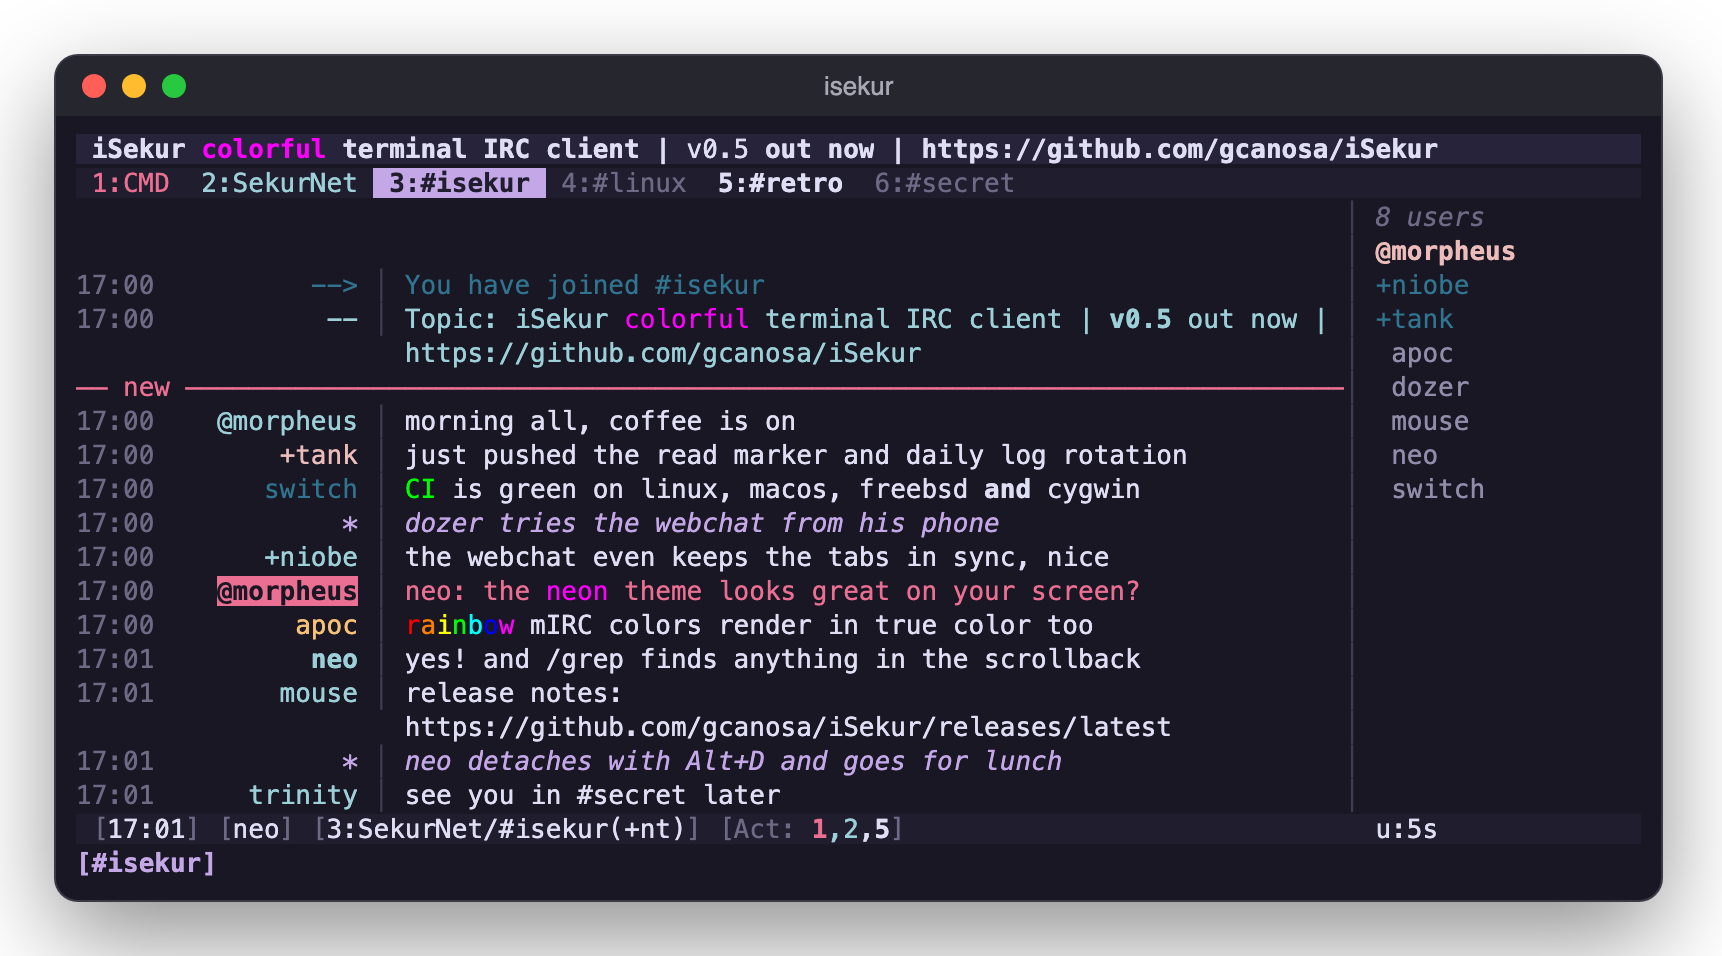
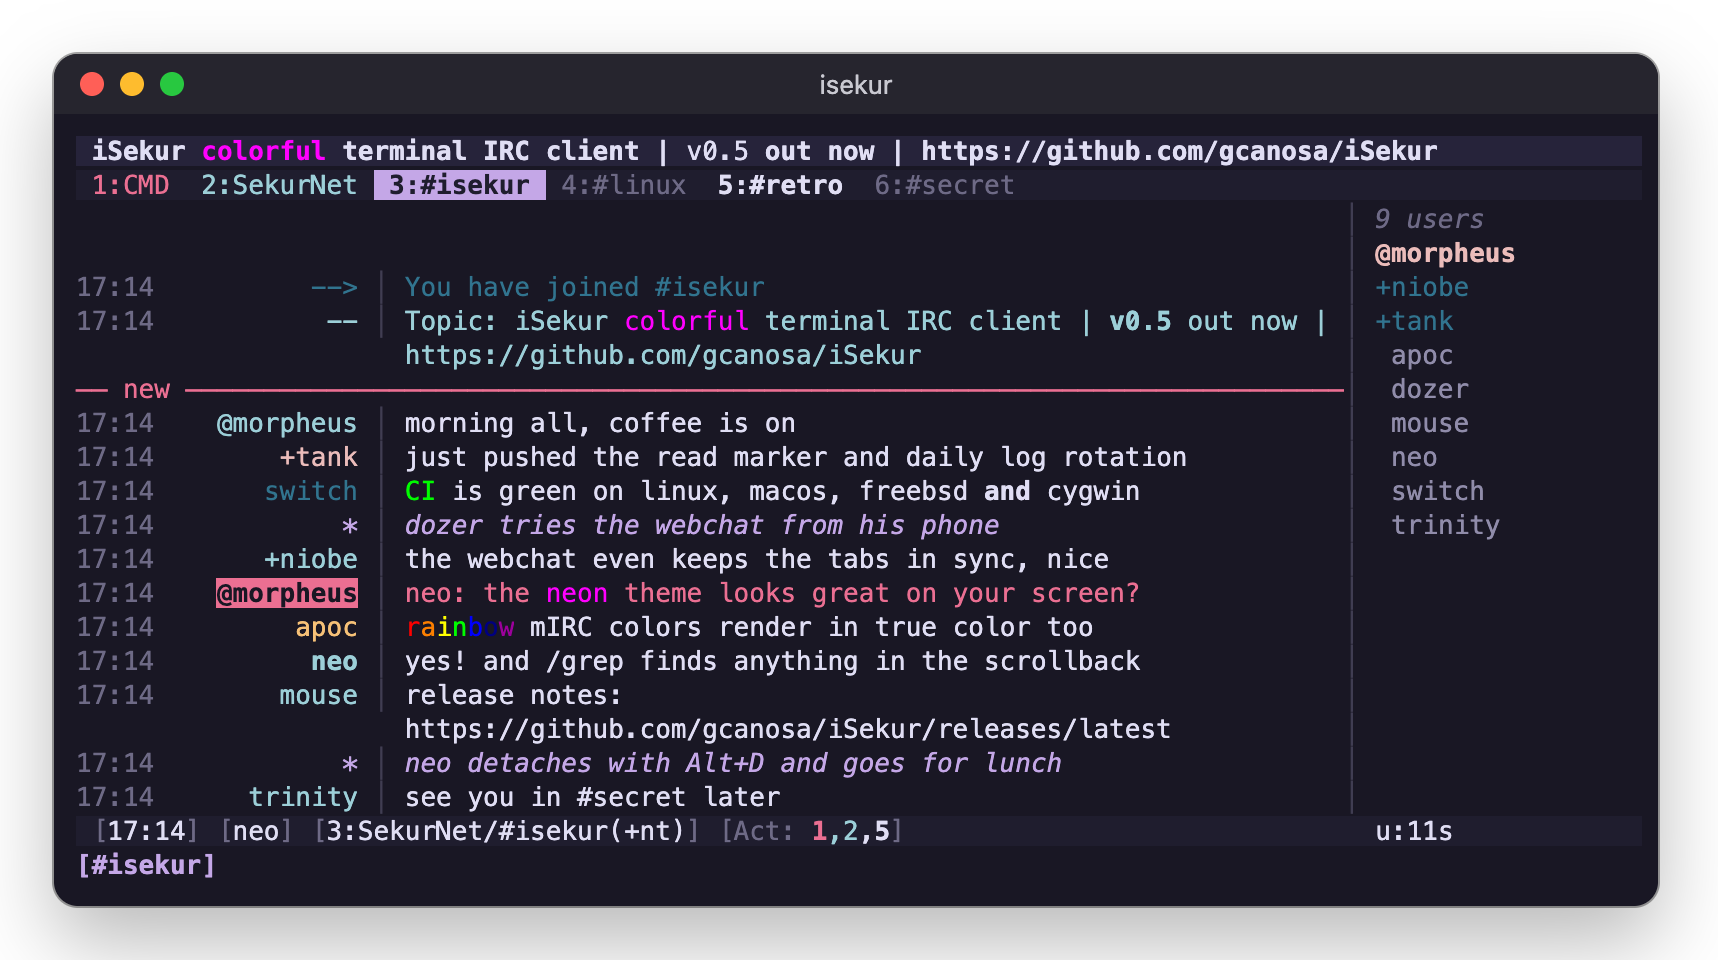
Homepage screenshots retaken from the current iSekur: six themes, /theme picker, /set window, webchat (desktop, phone, mIRC, settings; now at 2x) and the og card (37 themes). tools/shots/run.sh regenerates them against a scratch SekurIRCd. docs: /exit asks for the lock password

diff --git a/index.html b/index.html
@@ -290,7 +290,7 @@ footer a{color:var(--muted);text-decoration:underline}
   <h2>Same chat, six of the 37 themes.</h2>
   <p class="lead">Screenshots of iSekur running in a terminal. A theme changes everything: the bars, the tabs, the nicklist, the timestamps, the nick colors, even the layout (mIRC puts <code>&lt;nicks&gt;</code> inline).</p>
   <div class="gal-tabs" role="tablist"><button role="tab" aria-selected="true" data-g="mirc">mIRC</button><button role="tab" aria-selected="false" data-g="rose-pine">Rosé Pine</button><button role="tab" aria-selected="false" data-g="ayu">Ayu</button><button role="tab" aria-selected="false" data-g="neon">Neon</button><button role="tab" aria-selected="false" data-g="catppuccin-latte">Catppuccin Latte</button><button role="tab" aria-selected="false" data-g="dracula">Dracula</button></div>
-  <div class="gal" id="gal"><img class="on" data-g="mirc" src="img/chat-mirc.png" alt="iSekur in the mIRC theme: topic bar, tabs, chat with a new marker, nicklist and status bar" width="1722" height="956"><img data-g="rose-pine" src="img/chat-rose-pine.png" alt="iSekur in the Rosé Pine theme: topic bar, tabs, chat with a new marker, nicklist and status bar" width="1722" height="956"><img data-g="ayu" src="img/chat-ayu.png" alt="iSekur in the Ayu theme: topic bar, tabs, chat with a new marker, nicklist and status bar" width="1722" height="956"><img data-g="neon" src="img/chat-neon.png" alt="iSekur in the Neon theme: topic bar, tabs, chat with a new marker, nicklist and status bar" width="1722" height="956"><img data-g="catppuccin-latte" src="img/chat-catppuccin-latte.png" alt="iSekur in the Catppuccin Latte theme: topic bar, tabs, chat with a new marker, nicklist and status bar" width="1722" height="956"><img data-g="dracula" src="img/chat-dracula.png" alt="iSekur in the Dracula theme: topic bar, tabs, chat with a new marker, nicklist and status bar" width="1722" height="956"></div>
+  <div class="gal" id="gal"><img class="on" data-g="mirc" src="img/chat-mirc.png" alt="iSekur in the mIRC theme: topic bar, tabs, chat with a new marker, nicklist and status bar" width="1718" height="960"><img data-g="rose-pine" src="img/chat-rose-pine.png" alt="iSekur in the Rosé Pine theme: topic bar, tabs, chat with a new marker, nicklist and status bar" width="1718" height="960"><img data-g="ayu" src="img/chat-ayu.png" alt="iSekur in the Ayu theme: topic bar, tabs, chat with a new marker, nicklist and status bar" width="1718" height="960"><img data-g="neon" src="img/chat-neon.png" alt="iSekur in the Neon theme: topic bar, tabs, chat with a new marker, nicklist and status bar" width="1718" height="960"><img data-g="catppuccin-latte" src="img/chat-catppuccin-latte.png" alt="iSekur in the Catppuccin Latte theme: topic bar, tabs, chat with a new marker, nicklist and status bar" width="1718" height="960"><img data-g="dracula" src="img/chat-dracula.png" alt="iSekur in the Dracula theme: topic bar, tabs, chat with a new marker, nicklist and status bar" width="1718" height="960"></div>
 </section>
 
 <section id="tools">

diff --git a/tools/shots/web.js b/tools/shots/web.js
@@ -1,0 +1,24 @@
+const { chromium } = require(process.env.PWC);
+(async () => {
+  const b = await chromium.launch({ executablePath: process.env.CHROME });
+  const ctx = await b.newContext({ ignoreHTTPSErrors: true, deviceScaleFactor: 2, viewport: { width: 1240, height: 520 } });
+  const p = await ctx.newPage();
+  let url = "https://127.0.0.1:18443/";
+  try { await p.goto(url); } catch (e) { url = "http://127.0.0.1:18443/"; await p.goto(url); }
+  await p.fill("#lu", "me"); await p.fill("#lp", "shot"); await p.press("#lp", "Enter");
+  await p.waitForSelector("#msgs >> text=see you in", { timeout: 15000 });
+  await p.waitForTimeout(1500);
+  await p.screenshot({ path: "out/web-rose.png" });
+  const ph = await b.newContext({ ignoreHTTPSErrors: true, deviceScaleFactor: 2, viewport: { width: 390, height: 760 }, isMobile: true, hasTouch: true });
+  const q = await ph.newPage(); await q.goto(url);
+  await q.fill("#lu", "me"); await q.fill("#lp", "shot"); await q.press("#lp", "Enter");
+  await q.waitForSelector("#msgs >> text=see you in", { timeout: 15000 }); await q.waitForTimeout(1500);
+  await q.screenshot({ path: "out/web-phone.png" });
+  await p.setViewportSize({ width: 1280, height: 760 });
+  await p.fill("#line", "/theme mirc"); await p.press("#line", "Enter");
+  await p.waitForTimeout(2000);
+  await p.screenshot({ path: "out/web-mirc.png" });
+  await p.click("#setbtn"); await p.waitForTimeout(1500);
+  await p.screenshot({ path: "out/web-set.png" });
+  await b.close();
+})().catch(e => { console.error(e); process.exit(1); });

diff --git a/tools/shots/og.html b/tools/shots/og.html
@@ -1,0 +1,8 @@
+<!doctype html><meta charset="utf-8"><style>
+body{margin:0}
+#og{width:1200px;height:630px;position:relative;overflow:hidden;background:radial-gradient(900px 500px at 0 0,#3a2340 0,transparent 60%),radial-gradient(700px 400px at 100% 100%,#3a1f35 0,transparent 60%),#0f0d14;font-family:-apple-system,BlinkMacSystemFont,"Helvetica Neue",sans-serif;color:#e8e4f0}
+h1{position:absolute;left:68px;top:40px;margin:0;font:700 112px/1.2 ui-monospace,"SF Mono",Menlo,monospace;background:linear-gradient(90deg,#f472b6,#a78bfa 55%,#7dd3fc);-webkit-background-clip:text;color:transparent}
+p{position:absolute;left:68px;top:176px;width:440px;margin:0;font:700 26px/1.45 -apple-system,sans-serif}
+.f{position:absolute;left:68px;bottom:56px;font:22px ui-monospace,"SF Mono",Menlo,monospace;color:#b9b3c8}
+img{position:absolute;left:520px;top:80px;width:704px}
+</style><div id="og"><h1>iSekur</h1><p>A colorful, open source terminal IRC client with a built-in webchat.</p><img src="out/chat-rose-pine.png"><div class="f">37 themes · IRCv3 · E2E · macOS &amp; Linux</div></div>

diff --git a/tools/shots/render.js b/tools/shots/render.js
@@ -1,0 +1,10 @@
+// node render.js in.html out.png [#selector]
+const { chromium } = require(process.env.PWC);
+(async () => {
+  const b = await chromium.launch({ executablePath: process.env.CHROME });
+  const p = await b.newPage({ deviceScaleFactor: 2, viewport: { width: 1000, height: 800 } });
+  await p.goto("file://" + require("path").resolve(process.argv[2]));
+  await p.evaluate(() => document.fonts.ready);
+  await p.locator(process.argv[4] || "#shot").screenshot({ path: process.argv[3], omitBackground: true });
+  await b.close();
+})();

diff --git a/tools/shots/og.js b/tools/shots/og.js
@@ -1,0 +1,5 @@
+const { chromium } = require(process.env.PWC);
+(async () => { const b = await chromium.launch({ executablePath: process.env.CHROME });
+  const p = await b.newPage({ viewport: { width: 1200, height: 630 } });
+  await p.goto("file://" + require("path").resolve("og.html")); await p.waitForTimeout(300);
+  await p.locator("#og").screenshot({ path: "out/og.png" }); await b.close(); })();

diff --git a/tools/shots/scene.py b/tools/shots/scene.py
@@ -1,0 +1,124 @@
+# Drives SekurIRCd + bots + iSekur in tmux; writes ANSI captures for the site screenshots.
+import sys, os, time, subprocess, json
+CODE = os.path.abspath(os.path.join(os.path.dirname(__file__), "../../.."))
+sys.path.insert(0, os.environ.get("SEKURIRCD", CODE + "/sekurircd") + "/tests/itest")
+from harness import Server, Client
+HERE = os.path.dirname(os.path.abspath(__file__))
+ISK = os.environ.get("ISEKUR", CODE + "/iSekur")
+TMUX = ["/opt/homebrew/bin/tmux", "-L", "iskshot"]
+C = "\x03"; B = "\x02"; O = "\x0f"
+HASH = "pbkdf2$sha256$200000$rN4UvnbV7WAxmxQq/JgxkA==$vV4biqDvfNxWzUO6h0CYLACPNERvdWayUApM1d2zBOM="
+
+srv = Server(name="irc.sekurnet.org", cfg={"server": {"network": "SekurNet"}}).start()
+open(f"{HERE}/pids", "w").write(str(srv.proc.pid))
+bots = {n: srv.client(n, realname=n) for n in ["morpheus", "tank", "niobe", "switch", "apoc", "dozer", "mouse", "trinity"]}
+m = bots["morpheus"]
+for ch in ["#isekur", "#linux", "#retro", "#secret"]:
+    m.send(f"JOIN {ch}")
+time.sleep(0.3)
+m.send(f"TOPIC #isekur :iSekur {C}13colorful{O} terminal IRC client | {B}v0.5{B} out now | https://github.com/gcanosa/iSekur")
+for n, b in bots.items():
+    if n != "morpheus": b.send("JOIN #isekur")
+bots["tank"].send("JOIN #retro"); bots["trinity"].send("JOIN #secret")
+time.sleep(0.3)
+m.send("MODE #isekur +vv tank niobe")
+import socket, threading
+PX = socket.socket(); PX.bind(("127.0.0.1", 0)); PX.listen(5); PXPORT = PX.getsockname()[1]
+def _pipe(a, b, tag):
+    f = open(f"{HERE}/raw.log", "a")
+    while True:
+        try: d = a.recv(65536)
+        except OSError: d = b""
+        if not d: break
+        for l in d.decode(errors="replace").splitlines(): f.write(tag + l + "\n")
+        f.flush(); b.sendall(d)
+    a.close(); b.close()
+def _accept():
+    while True:
+        c, _ = PX.accept(); u = socket.create_connection(("127.0.0.1", srv.port))
+        threading.Thread(target=_pipe, args=(c, u, "C> "), daemon=True).start()
+        threading.Thread(target=_pipe, args=(u, c, "S> "), daemon=True).start()
+threading.Thread(target=_accept, daemon=True).start()
+def pump():
+    for b in bots.values(): b.drain(0.01)
+
+def tmux(*a, **kw): return subprocess.run(TMUX + list(a), capture_output=True, text=True, **kw).stdout
+def keys(*k): tmux("send-keys", "-t", "s", *k); time.sleep(0.25)
+def typ(line): tmux("send-keys", "-t", "s", "-l", line); keys("Enter"); time.sleep(0.2)
+def cap(name):
+    time.sleep(0.6)
+    open(f"{HERE}/{name}.ans", "w").write(tmux("capture-pane", "-t", "s", "-p", "-e", "-N"))
+def say(n, text, ch="#isekur"):
+    bots[n].send(f"PRIVMSG {ch} :{text}"); time.sleep(0.15)
+def act(n, text): say(n, f"\x01ACTION {text}\x01")
+
+def stop():
+    typ("/exit -y"); time.sleep(0.8); tmux("kill-server"); time.sleep(0.3)
+
+def start(theme, rows, web=False):
+    d = "/tmp/iskshot"; os.makedirs(d, exist_ok=True)
+    open(f"{d}/isekur.conf", "w").write(f"""[general]
+nick = neo
+altnick = neo_
+realname = Thomas A.
+theme = {theme}
+colors = truecolor
+show_guide = off
+check_updates = off
+log = off
+keep_history = off
+banner_anim = off
+flood_interval_ms = 0
+[server.sekurnet]
+host = 127.0.0.1
+port = {PXPORT}
+tls = false
+autojoin = #isekur,#linux,#retro,#secret
+[web]
+autostart = {'on' if web else 'off'}
+port = 18443
+user = me
+password_hash = {HASH}
+""")
+    tmux("new-session", "-d", "-s", "s", "-x", "100", "-y", str(rows),
+         f"cd {ISK} && TERM=xterm-256color COLORTERM=truecolor ./isekur -c {d}/isekur.conf")
+    for _ in range(60):
+        time.sleep(0.25); pump()
+        if "#secret" in tmux("capture-pane", "-t", "s", "-p"): break
+    time.sleep(1)
+
+def chat():
+    keys("M-3"); time.sleep(0.5); keys("M-4"); time.sleep(0.3)
+    say("morpheus", "morning all, coffee is on")
+    say("tank", "just pushed the read marker and daily log rotation")
+    say("switch", f"{C}09CI{O} is green on linux, macos, freebsd {B}and{B} cygwin")
+    act("dozer", "tries the webchat from his phone")
+    say("niobe", "the webchat even keeps the tabs in sync, nice")
+    say("morpheus", f"neo: the {C}13neon{O} theme looks great on your screen?")
+    say("apoc", f"{C}04r{C}07a{C}08i{C}09n{C}12b{C}02o{C}06w{O} mIRC colors render in true color too")
+    say("tank", "anyone still running a 486 here?", "#retro")
+    time.sleep(0.4); keys("M-3"); pump()
+    typ("yes! and /grep finds anything in the scrollback")
+    say("mouse", "release notes: https://github.com/gcanosa/iSekur/releases/latest")
+    typ("/me detaches with Alt+D and goes for lunch")
+    say("trinity", "see you in #secret later")
+    time.sleep(0.5); pump()
+
+mode = sys.argv[1]
+if mode == "chat":
+    for th in sys.argv[2:]:
+        start(th, 22); chat(); cap(f"chat-{th}"); stop()
+elif mode == "ui":
+    start("catppuccin-mocha", 26); chat()
+    typ("/theme"); time.sleep(0.5)
+    for _ in range(3): keys("Down")
+    cap("theme-picker"); keys("Escape"); time.sleep(0.5)
+    typ("/set"); time.sleep(0.5)
+    keys("Down"); keys("Down"); keys("Down")
+    cap("settings"); keys("q"); stop()
+elif mode == "web":
+    start("rose-pine", 22, web=True); chat()
+    print("READY", flush=True)
+    while os.path.exists(f"{HERE}/web.hold"): time.sleep(0.5); pump()
+    stop()
+srv.stop()

diff --git a/tools/shots/ans2html.py b/tools/shots/ans2html.py
@@ -1,0 +1,64 @@
+# ans2html.py capture.ans theme > out.html : a tmux capture-pane -e dump as a macOS-style terminal window
+import sys, re, html, os
+src = open(sys.argv[1]).read()
+src = re.sub(r"\x1b\]8;[^\x1b\x07]*(\x1b\\|\x07)", "", src)  # OSC 8 links
+th = open(os.path.join(os.environ.get("ISEKUR", os.path.join(os.path.dirname(os.path.abspath(__file__)), "../../../iSekur")), "themes", sys.argv[2] + ".theme")).read()
+dfg, dbg = re.search(r"^default\s*=\s*(#\w+)\s+(#\w+)", th, re.M).groups()
+P16 = ["#000000","#cd0000","#00cd00","#cdcd00","#0000ee","#cd00cd","#00cdcd","#e5e5e5",
+       "#7f7f7f","#ff0000","#00ff00","#ffff00","#5c5cff","#ff00ff","#00ffff","#ffffff"]
+def c256(n):
+    if n < 16: return P16[n]
+    if n < 232:
+        n -= 16; v = [0, 95, 135, 175, 215, 255]
+        return "#%02x%02x%02x" % (v[n // 36], v[n // 6 % 6], v[n % 6])
+    g = 8 + (n - 232) * 10; return "#%02x%02x%02x" % (g, g, g)
+def run(line):
+    st = dict(fg=None, bg=None, b=0, d=0, i=0, u=0, r=0); out = []
+    for tok in re.split(r"(\x1b\[[0-9;:]*m)", line):
+        if tok.startswith("\x1b["):
+            a = [int(x) if x else 0 for x in re.split("[;:]", tok[2:-1])] or [0]
+            k = 0
+            while k < len(a):
+                x = a[k]
+                if x == 0: st = dict(fg=None, bg=None, b=0, d=0, i=0, u=0, r=0)
+                elif x == 1: st["b"] = 1
+                elif x == 2: st["d"] = 1
+                elif x == 3: st["i"] = 1
+                elif x == 4: st["u"] = 1
+                elif x == 7: st["r"] = 1
+                elif x == 22: st["b"] = st["d"] = 0
+                elif x == 23: st["i"] = 0
+                elif x == 24: st["u"] = 0
+                elif x == 27: st["r"] = 0
+                elif x in (38, 48):
+                    key = "fg" if x == 38 else "bg"
+                    if a[k+1] == 2: st[key] = "#%02x%02x%02x" % tuple(a[k+2:k+5]); k += 4
+                    else: st[key] = c256(a[k+2]); k += 2
+                elif x == 39: st["fg"] = None
+                elif x == 49: st["bg"] = None
+                elif 30 <= x <= 37: st["fg"] = P16[x-30]
+                elif 40 <= x <= 47: st["bg"] = P16[x-40]
+                elif 90 <= x <= 97: st["fg"] = P16[x-82]
+                elif 100 <= x <= 107: st["bg"] = P16[x-92]
+                k += 1
+        elif tok:
+            fg, bg = st["fg"] or dfg, st["bg"] or dbg
+            if st["r"]: fg, bg = bg, fg
+            css = f"color:{fg};background:{bg}"
+            if st["b"]: css += ";font-weight:700"
+            if st["d"]: css += ";opacity:.6"
+            if st["i"]: css += ";font-style:italic"
+            if st["u"]: css += ";text-decoration:underline"
+            out.append(f'<span style="{css}">{html.escape(tok)}</span>')
+    return "".join(out)
+rows = src.rstrip("\n").split("\n")
+body = "\n".join(f'<div class="l">{run(r)}</div>' for r in rows)
+print(f"""<!doctype html><meta charset="utf-8"><style>
+html,body{{margin:0;background:transparent}}
+#shot{{padding:27px 30px 27px 27px;display:inline-block}}
+.win{{border-radius:12px;overflow:hidden;box-shadow:0 0 0 1px rgba(0,0,0,.35),0 18px 40px rgba(0,0,0,.28);background:{dbg};width:802px}}
+.tb{{height:30px;background:#26252e;position:relative;font:13px -apple-system,BlinkMacSystemFont,sans-serif;color:#c9c9d1;text-align:center;line-height:30px}}
+.tb i{{position:absolute;top:9px;width:12px;height:12px;border-radius:50%}}
+.t{{padding:10px 11px 12px;font:13px/17px ui-monospace,"SF Mono",Menlo,monospace}}
+.l{{white-space:pre;height:17px}}
+</style><body><div id="shot"><div class="win"><div class="tb"><i style="left:13px;background:#ff5f57"></i><i style="left:33px;background:#febc2e"></i><i style="left:53px;background:#28c840"></i>isekur</div><div class="t">{body}</div></div></div>""")

diff --git a/tools/shots/README.md b/tools/shots/README.md
@@ -1,0 +1,11 @@
+# Homepage screenshots
+
+`./run.sh` replays a scripted chat on a scratch SekurIRCd (`irc.sekurnet.org`, network SekurNet, 8 bot nicks).
+It drives iSekur in `tmux -L iskshot`, turns each `capture-pane -e` into a terminal-window page (`ans2html.py`)
+and screenshots it at 2x (`render.js`). The webchat shots come from the same session (`web.js`, login `me`/`shot`),
+and `og.html` is the social card. Results go into `../../img`.
+
+Gotchas the scripts already handle: one ircd per theme (CHATHISTORY would replay earlier runs);
+`flood_interval_ms = 0`; quit with `/exit -y` (killing tmux only detaches iSekur);
+`TERM=xterm-256color` for italics; a short config dir (`/tmp/iskshot`) for the detach socket.
+The `doc-*.png` images in the docs section are not covered yet.
